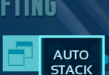
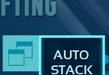
Add files via upload

diff --git a/ASA/strucutres/inventory.py b/ASA/strucutres/inventory.py
@@ -16,6 +16,19 @@ inv_slots = {
 }
 def is_open():
     return template.check_template("inventory",0.7)
+
+def auto_stack():
+    """Click the Auto Stack button in the structure inventory, if present."""
+    try:
+        # Button is in the top-right of the structure inventory panel.
+        if template.check_template("auto_stack", 0.75) or template.check_template("auto_stack_icon", 0.70):
+            windows.click(variables.get_pixel_loc("auto_stack_x"), variables.get_pixel_loc("auto_stack_y"))
+            time.sleep(0.25 * settings.lag_offset)
+            return True
+    except Exception as e:
+        logs.logger.error(f"auto_stack failed: {e}")
+    return False
+
     
 def open():
     attempts = 0 
@@ -38,25 +51,7 @@ def open():
         if attempts >= ASA.config.inventory_open_attempts:
             logs.logger.error(f"unable to open up the objects inventory")
             break
-    time.sleep(0.4*settings.lag_offset)
-
-def auto_stack():
-    """Click the AUTO STACK button once if present (structure/tame inventories).
-    Safe no-op if the button isn't visible.
-    """
-    if not is_open():
-        return False
-    # Only click if the button is visible in its ROI.
-    try:
-        if not template.check_template("auto_stack", 0.70):
-            return False
-    except Exception:
-        return False
-
-    windows.click(variables.get_pixel_loc("auto_stack_x"), variables.get_pixel_loc("auto_stack_y"))
-    time.sleep(0.25*settings.lag_offset)
-    return True
-    
+    time.sleep(0.4*settings.lag_offset)    
 def close():
     attempts = 0
     while is_open():

diff --git a/template.py b/template.py
@@ -10,7 +10,6 @@ import json
 
 
 roi_regions = {
-    "auto_stack": {"start_x":2137, "start_y":175, "width":182, "height":125},
     "bed_radical": {"start_x":1120, "start_y":345 ,"width":250 ,"height":250},
     "beds_title": {"start_x":100, "start_y":100 ,"width":740 ,"height":180},
     "console": {"start_x":0, "start_y":1400 ,"width":50 ,"height":40},
@@ -39,7 +38,9 @@ roi_regions = {
     "chem_bench":{"start_x":1100, "start_y":245 ,"width":355 ,"height":70},
     "megalab": {"start_x":1100, "start_y":245 ,"width":355 ,"height":70},
     "indi_forge":{"start_x":1100, "start_y":245 ,"width":355 ,"height":70},
-    "access_inv":{"start_x":550, "start_y":450 ,"width":1670 ,"height":880}
+    "access_inv":{"start_x":550, "start_y":450 ,"width":1670 ,"height":880},
+    "auto_stack": {"start_x": 2137, "start_y": 175, "width": 182, "height": 125},
+    "auto_stack_icon": {"start_x": 2137, "start_y": 175, "width": 182, "height": 125},
 }
 def template_await_true(func,sleep_amount:float,*args) -> bool:
     count = 0 

diff --git a/variables.py b/variables.py
@@ -22,8 +22,6 @@ data = {
     "first_bed_slot_y": 300,
     "close_inv_x": 2400,
     "close_inv_y": 90,
-    "auto_stack_x": 2228,
-    "auto_stack_y": 238,
     # Structure-side tabs (right panel) for inventories like Megalab/ChemBench
     # (1440p baseline; auto-scaled to 1080p via get_pixel_loc)
     "structure_inventory_tab_x": 1695,
@@ -38,7 +36,9 @@ data = {
     "buff_button_y": 1180,
     "drop_all_obj_x":1978,
     "back_button_tp_x": 240,
-    "back_button_tp_y": 1285
+    "back_button_tp_y": 1285,
+    "auto_stack_x": 2230,
+    "auto_stack_y": 245,
 }
 
 def get_pixel_loc(location):

diff --git a/bot/deposit.py b/bot/deposit.py
@@ -289,7 +289,7 @@ def collect_grindables(metadata):
     time.sleep(0.5*settings.lag_offset)  # guard to avoid toggling Megalab off
     ASA.strucutres.inventory.open()
     if template.template_await_true(template.check_template, 1, "inventory", 0.7):
-        ASA.strucutres.inventory.auto_stack()  # consolidate stacks before dumping poly
+        ASA.strucutres.inventory.auto_stack()
         ASA.player.player_inventory.search_in_inventory("poly")
         ASA.player.player_inventory.transfer_all_inventory()
         time.sleep(0.2*settings.lag_offset)
